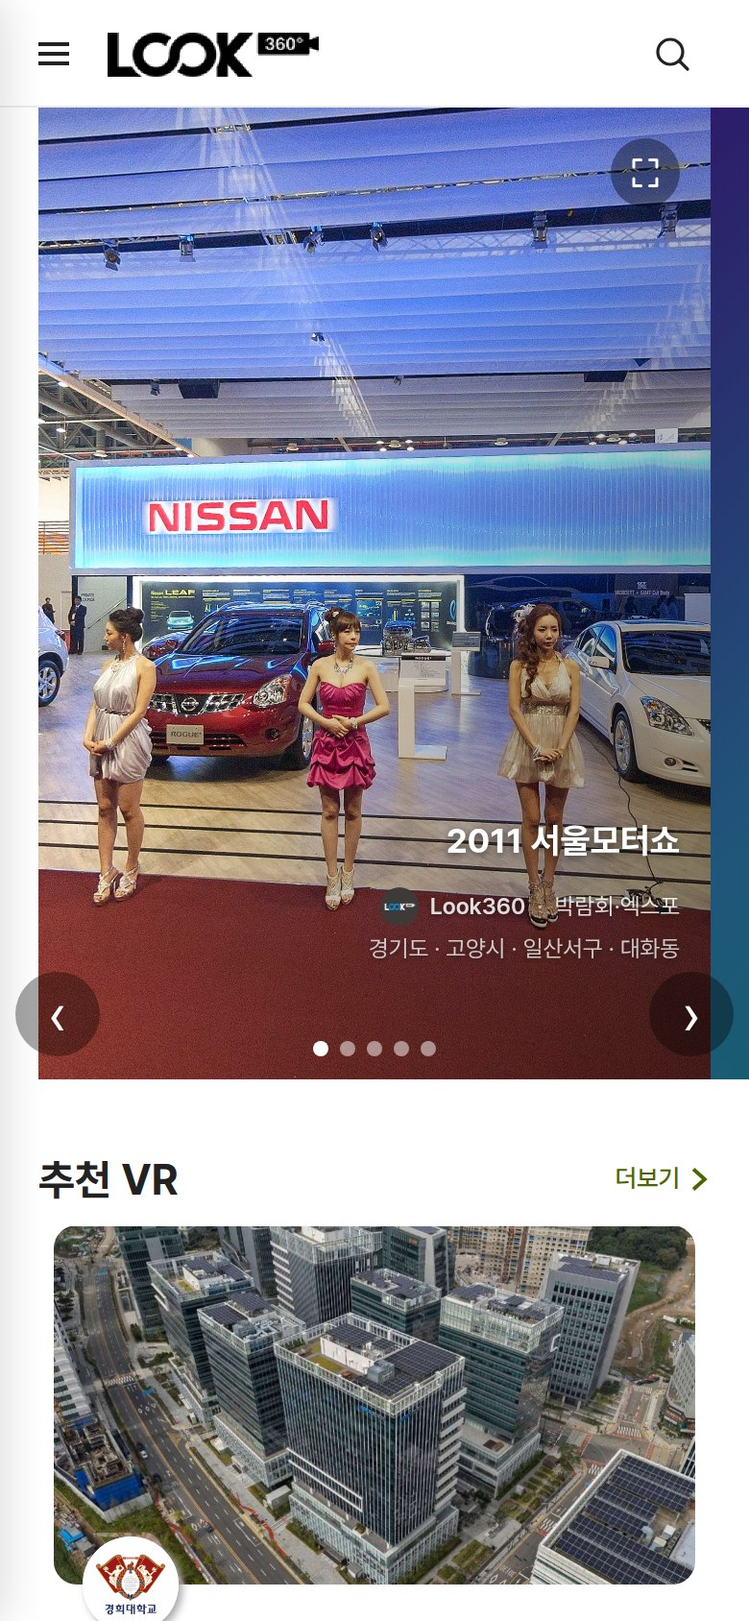
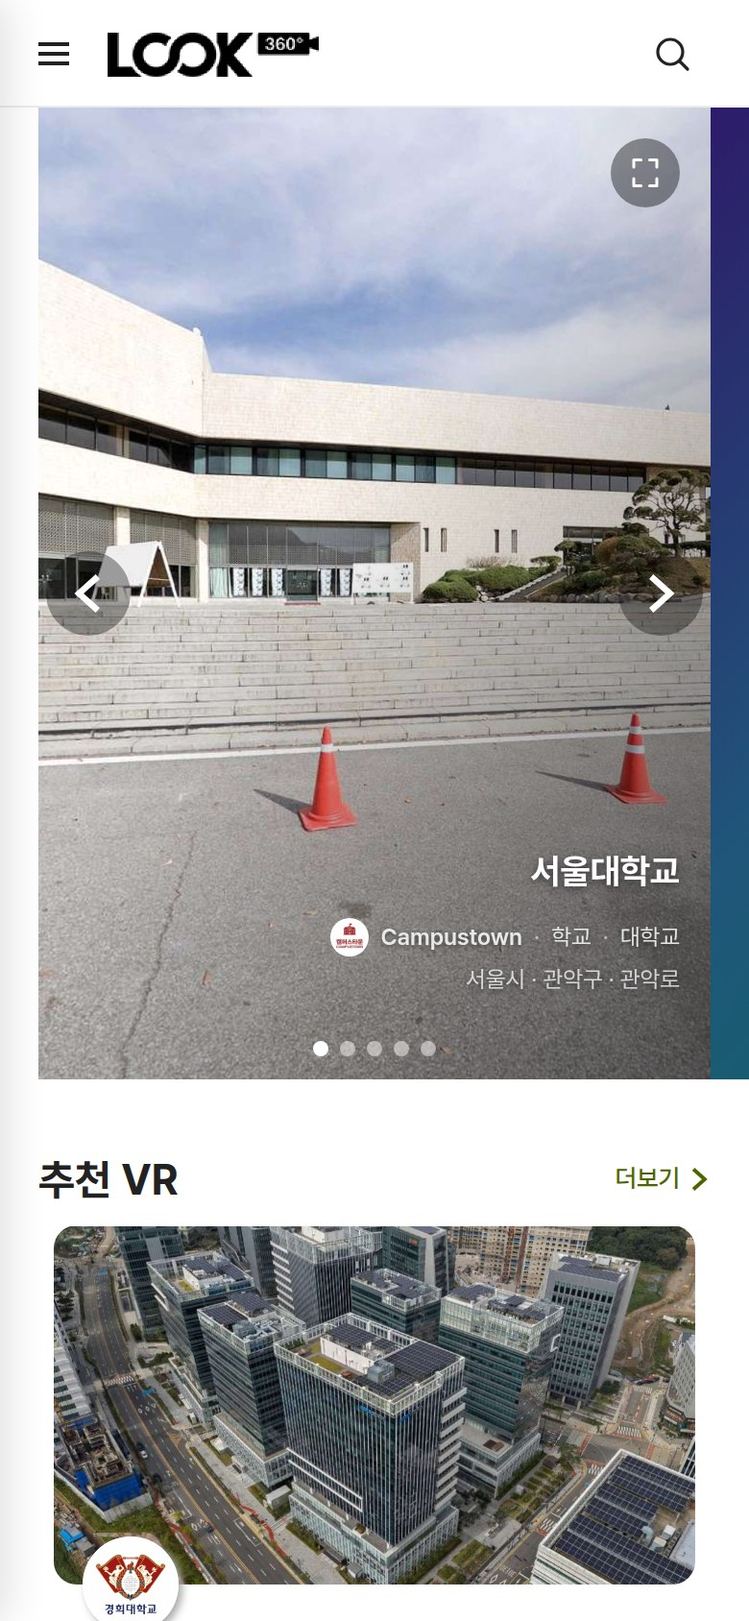
feat(weekly): 스크린샷 슬라이드에 「직접 확인」 URL 링크 + FAQ 카테고리 관리 실화면
URL 링크 (오너 상시 요구 — 매번 누락되던 항목을 도구로 강제)
- 스크린샷 8개 슬라이드 전부에 target=_blank 링크 블록 추가
- capture-weekly.mjs 가 캡처 후 붙여넣을 링크 블록을 함께 출력
- check-deck.mjs 신설 — 오버플로·깨진 이미지·이모지 오염에 더해
  「스크린샷은 있는데 링크가 없는 슬라이드」를 잡아 exit 1

캡처 스크립트
- actions 시퀀스 지원(fill/press/click/wait) — 눌러야 보이는 다이얼로그 캡처
- admin-bbs(QC 테스트 보드 잔재라 자료로 부적합) → admin-faq-category 로 교체
  /bbs/manage 에서 faq 검색 → 카테고리 관리 다이얼로그까지 자동 진입

덱 (35장, 검증 4종 통과)
- 23p 신설 — FAQ 분류 7종 CRUD 관리자 실화면
- 링크 삽입으로 넘친 7개 슬라이드 이미지 폭 재조정

diff --git a/weekly-reports/2026-09-02.html b/weekly-reports/2026-09-02.html
@@ -5,7 +5,7 @@
 <hr />
 <p>Indyspot AI Corp  ·  Engineering Manager  ·  2026-09-02</p>
 </section>
-</foreignObject></svg><svg data-marpit-svg="" viewBox="0 0 1280 720"><foreignObject width="1280" height="720"><section id="2" data-paginate="true" data-class="agenda" data-theme="clean" lang="ko-KR" class="agenda" data-marpit-pagination="2" style="--paginate:true;--class:agenda;--theme:clean;" data-marpit-pagination-total="34">
+</foreignObject></svg><svg data-marpit-svg="" viewBox="0 0 1280 720"><foreignObject width="1280" height="720"><section id="2" data-paginate="true" data-class="agenda" data-theme="clean" lang="ko-KR" class="agenda" data-marpit-pagination="2" style="--paginate:true;--class:agenda;--theme:clean;" data-marpit-pagination-total="35">
 <h2 id="%EC%9D%B4%EB%B2%88-%EC%A3%BC-%EC%A3%BC%EC%9A%94-%EC%9E%91%EC%97%85--%EC%B2%AB-%ED%99%94%EB%A9%B4%EC%9D%84-%EB%8B%A4%EC%8B%9C-%EB%A7%8C%EB%93%A4%EA%B3%A0-%EA%B4%80%EB%A6%AC%EC%9E%90%EC%97%90%EA%B2%8C-%EB%88%88%EC%9D%84-%EB%8B%AC%EC%95%84%EC%A4%80-%EC%A3%BC%EA%B0%84">이번 주 주요 작업 — 「첫 화면을 다시 만들고, 관리자에게 눈을 달아준」 주간</h2>
 <div class="cols">
 <div class="col">
@@ -43,26 +43,30 @@
 </div>
 </div>
 </section>
-</foreignObject></svg><svg data-marpit-svg="" viewBox="0 0 1280 720"><foreignObject width="1280" height="720"><section id="3" data-paginate="true" data-class="sec" data-theme="clean" lang="ko-KR" class="sec" data-marpit-pagination="3" style="--paginate:true;--class:sec;--theme:clean;" data-marpit-pagination-total="34">
+</foreignObject></svg><svg data-marpit-svg="" viewBox="0 0 1280 720"><foreignObject width="1280" height="720"><section id="3" data-paginate="true" data-class="sec" data-theme="clean" lang="ko-KR" class="sec" data-marpit-pagination="3" style="--paginate:true;--class:sec;--theme:clean;" data-marpit-pagination-total="35">
 <p><span class="sec-num">Section 01</span></p>
 <h2 id="%ED%99%88-%ED%99%94%EB%A9%B4--%EC%B2%AB%EC%9D%B8%EC%83%81%EC%9D%84-%EB%8B%A4%EC%8B%9C-%EB%A7%8C%EB%93%A4%EB%8B%A4">홈 화면 — 첫인상을 다시 만들다</h2>
 <p>메인 슬라이드를 이미지 배너에서 「실제로 돌려볼 수 있는 360VIEW」로 교체했습니다.</p>
 </section>
-</foreignObject></svg><svg data-marpit-svg="" viewBox="0 0 1280 720"><foreignObject width="1280" height="720"><section id="4" data-paginate="true" data-theme="clean" lang="ko-KR" data-marpit-pagination="4" style="--paginate:true;--theme:clean;" data-marpit-pagination-total="34">
+</foreignObject></svg><svg data-marpit-svg="" viewBox="0 0 1280 720"><foreignObject width="1280" height="720"><section id="4" data-paginate="true" data-theme="clean" lang="ko-KR" data-marpit-pagination="4" style="--paginate:true;--theme:clean;" data-marpit-pagination-total="35">
 <h2 id="%F0%9F%8F%A0-%ED%99%88-%EB%A9%94%EC%9D%B8-%EC%8A%AC%EB%9D%BC%EC%9D%B4%EB%93%9C-360view-%EC%A0%84%EB%A9%B4-%EA%B5%90%EC%B2%B4-span-classbadge-date827829span-span-classbadge-newnewspan"><img class="emoji" draggable="false" alt="🏠" src="https://cdn.jsdelivr.net/gh/jdecked/twemoji@17.0.3/assets/svg/1f3e0.svg" data-marp-twemoji=""/> 홈 메인 슬라이드 360VIEW 전면 교체 <span class="badge-date">8/27~8/29</span> <span class="badge-new">NEW</span></h2>
-<p>기존 배너는 관리자가 하나씩 등록한 <span class="hl-gray">고정 이미지</span>였습니다. 이제 실제 360VIEW 콘텐츠가 <span class="hl-green">자동으로 재생</span>되며, 방문할 때마다 다른 콘텐츠가 나옵니다.</p>
+<p>기존 배너는 관리자가 하나씩 등록한 <span class="hl-gray">고정 이미지</span>였습니다. 이제 실제 360VIEW 콘텐츠가 <span class="hl-green">자동으로 재생</span>됩니다. <span class="hl-blue">아래 두 화면에 서로 다른 콘텐츠가 떠 있는 것</span>이 방문할 때마다 바뀌는 랜덤 노출의 결과입니다.</p>
 <div class="shot-pair">
 <figure style="width: 780px">
 <img src="assets/2026-09-02/01-home-hero-crop.jpg" width="780" />
 <figcaption>PC — 자동재생 중인 360VIEW · 우하단 3줄 정보(제목 / 채널·카테고리 / 지역) · 우상단 전체화면 · 하단 랜덤 5장</figcaption>
 </figure>
-<figure style="width: 180px">
-<img src="assets/2026-09-02/02-home-mobile.jpg" width="180" />
+<figure style="width: 158px">
+<img src="assets/2026-09-02/02-home-mobile.jpg" width="158" />
 <figcaption>모바일 — 높이를 제한해<br /><span class="hl-green">스크롤이 빠져나갑니다</span></figcaption>
 </figure>
 </div>
+<div class="links">
+<span class="lbl">직접 확인</span>
+<a class="lnk" href="http://100.120.25.127:5174/" target="_blank">http://100.120.25.127:5174/</a>
+</div>
 </section>
-</foreignObject></svg><svg data-marpit-svg="" viewBox="0 0 1280 720"><foreignObject width="1280" height="720"><section id="5" data-paginate="true" data-theme="clean" lang="ko-KR" data-marpit-pagination="5" style="--paginate:true;--theme:clean;" data-marpit-pagination-total="34">
+</foreignObject></svg><svg data-marpit-svg="" viewBox="0 0 1280 720"><foreignObject width="1280" height="720"><section id="5" data-paginate="true" data-theme="clean" lang="ko-KR" data-marpit-pagination="5" style="--paginate:true;--theme:clean;" data-marpit-pagination-total="35">
 <h2 id="%F0%9F%94%84-%EB%AC%B4%EC%97%87%EC%9D%B4-%EB%B0%94%EB%80%8C%EC%97%88%EB%82%98-span-classbadge-date827829span"><img class="emoji" draggable="false" alt="🔄" src="https://cdn.jsdelivr.net/gh/jdecked/twemoji@17.0.3/assets/svg/1f504.svg" data-marp-twemoji=""/> 무엇이 바뀌었나 <span class="badge-date">8/27~8/29</span></h2>
 <table>
 <thead>
@@ -109,7 +113,7 @@
 <p>모바일에서 슬라이드 위에 손가락이 닿으면 페이지 스크롤이 막혀 <span class="hl-red">아래로 내려갈 수 없던 문제</span>(일명 개미지옥)도 함께 해소했습니다.</p>
 </blockquote>
 </section>
-</foreignObject></svg><svg data-marpit-svg="" viewBox="0 0 1280 720"><foreignObject width="1280" height="720"><section id="6" data-paginate="true" data-theme="clean" lang="ko-KR" data-marpit-pagination="6" style="--paginate:true;--theme:clean;" data-marpit-pagination-total="34">
+</foreignObject></svg><svg data-marpit-svg="" viewBox="0 0 1280 720"><foreignObject width="1280" height="720"><section id="6" data-paginate="true" data-theme="clean" lang="ko-KR" data-marpit-pagination="6" style="--paginate:true;--theme:clean;" data-marpit-pagination-total="35">
 <h2 id="%F0%9F%9B%A1%EF%B8%8F-%ED%99%88%EC%97%90-%EB%82%98%EC%98%A4%EB%A9%B4-%EC%95%88-%EB%90%98%EB%8A%94-%EC%BD%98%ED%85%90%EC%B8%A0-%EC%B0%A8%EB%8B%A8-span-classbadge-date829span-span-classbadge-newnewspan"><img class="emoji" draggable="false" alt="🛡" src="https://cdn.jsdelivr.net/gh/jdecked/twemoji@17.0.3/assets/svg/1f6e1.svg" data-marp-twemoji=""/> 홈에 나오면 안 되는 콘텐츠 차단 <span class="badge-date">8/29</span> <span class="badge-new">NEW</span></h2>
 <p>랜덤 노출이 도입되면서 <span class="hl-red">아무 콘텐츠나 첫 화면에 뜰 수 있는 위험</span>이 생겼습니다. 노출 자격을 서버에서 다시 판정하도록 했습니다.</p>
 <table>
@@ -143,7 +147,7 @@
 <p>감상 기록 오염도 함께 발견해 처리 중입니다 — 홈 슬라이드가 로그인 사용자의 <span class="hl-red">「내가 본 콘텐츠」에 자동 기록</span>되고 있었습니다. 수정은 완료되어 <span class="hl-amber">검토 단계</span>입니다.</p>
 </blockquote>
 </section>
-</foreignObject></svg><svg data-marpit-svg="" viewBox="0 0 1280 720"><foreignObject width="1280" height="720"><section id="7" data-paginate="true" data-theme="clean" lang="ko-KR" data-marpit-pagination="7" style="--paginate:true;--theme:clean;" data-marpit-pagination-total="34">
+</foreignObject></svg><svg data-marpit-svg="" viewBox="0 0 1280 720"><foreignObject width="1280" height="720"><section id="7" data-paginate="true" data-theme="clean" lang="ko-KR" data-marpit-pagination="7" style="--paginate:true;--theme:clean;" data-marpit-pagination-total="35">
 <h2 id="%F0%9F%A7%A9-%ED%99%88-%ED%99%94%EB%A9%B4-%EB%82%98%EB%A8%B8%EC%A7%80-%EA%B2%B0%ED%95%A8-3%EA%B1%B4-span-classbadge-date83191span"><img class="emoji" draggable="false" alt="🧩" src="https://cdn.jsdelivr.net/gh/jdecked/twemoji@17.0.3/assets/svg/1f9e9.svg" data-marp-twemoji=""/> 홈 화면 나머지 결함 3건 <span class="badge-date">8/31~9/1</span></h2>
 <div class="cols">
 <div class="col">
@@ -167,12 +171,12 @@
 <p>미리보기 썸네일이 <span class="hl-red">깨진 경우 무한 로딩 표시</span>로 위장되던 문제도 함께 수정했습니다.</p>
 </blockquote>
 </section>
-</foreignObject></svg><svg data-marpit-svg="" viewBox="0 0 1280 720"><foreignObject width="1280" height="720"><section id="8" data-paginate="true" data-class="sec" data-theme="clean" lang="ko-KR" class="sec" data-marpit-pagination="8" style="--paginate:true;--class:sec;--theme:clean;" data-marpit-pagination-total="34">
+</foreignObject></svg><svg data-marpit-svg="" viewBox="0 0 1280 720"><foreignObject width="1280" height="720"><section id="8" data-paginate="true" data-class="sec" data-theme="clean" lang="ko-KR" class="sec" data-marpit-pagination="8" style="--paginate:true;--class:sec;--theme:clean;" data-marpit-pagination-total="35">
 <p><span class="sec-num">Section 02</span></p>
 <h2 id="vr-%EA%B0%90%EC%83%81-%ED%99%94%EB%A9%B4--%EC%96%B8%EC%96%B4%EB%A5%BC-%EB%B0%94%EA%BF%A8%EB%8A%94%EB%8D%B0-%EC%95%88-%EB%B0%94%EB%80%8C%EB%8A%94-%EA%B2%83%EB%93%A4">VR 감상 화면 — 「언어를 바꿨는데 안 바뀌는 것들」</h2>
 <p>콘텐츠 언어를 전환했을 때 따라 바뀌지 않던 표시를 전수 정리했습니다.</p>
 </section>
-</foreignObject></svg><svg data-marpit-svg="" viewBox="0 0 1280 720"><foreignObject width="1280" height="720"><section id="9" data-paginate="true" data-theme="clean" lang="ko-KR" data-marpit-pagination="9" style="--paginate:true;--theme:clean;" data-marpit-pagination-total="34">
+</foreignObject></svg><svg data-marpit-svg="" viewBox="0 0 1280 720"><foreignObject width="1280" height="720"><section id="9" data-paginate="true" data-theme="clean" lang="ko-KR" data-marpit-pagination="9" style="--paginate:true;--theme:clean;" data-marpit-pagination-total="35">
 <h2 id="%F0%9F%88%AF-vr-%EA%B0%90%EC%83%81-%ED%99%94%EB%A9%B4--%EC%96%B8%EC%96%B4%EB%A5%BC-%EB%B0%94%EA%BF%94%EB%8F%84-%EC%95%88-%EB%B0%94%EB%80%8C%EB%8D%98-%ED%91%9C%EC%8B%9C-span-classbadge-date826827span-span-classbadge-newnewspan"><img class="emoji" draggable="false" alt="🈯" src="https://cdn.jsdelivr.net/gh/jdecked/twemoji@17.0.3/assets/svg/1f22f.svg" data-marp-twemoji=""/> VR 감상 화면 — 언어를 바꿔도 안 바뀌던 표시 <span class="badge-date">8/26~8/27</span> <span class="badge-new">NEW</span></h2>
 <p><span class="hl-blue">VR 감상 화면(<code>/vr/…</code>)</span>에서 오너가 직접 언어를 바꿔 보며 발견한 결함입니다. <span class="hl-blue">이 한 건에서만 23개 작업</span>이 나왔습니다.</p>
 <table>
@@ -202,7 +206,7 @@
 </tbody>
 </table>
 </section>
-</foreignObject></svg><svg data-marpit-svg="" viewBox="0 0 1280 720"><foreignObject width="1280" height="720"><section id="10" data-paginate="true" data-theme="clean" lang="ko-KR" data-marpit-pagination="10" style="--paginate:true;--theme:clean;" data-marpit-pagination-total="34">
+</foreignObject></svg><svg data-marpit-svg="" viewBox="0 0 1280 720"><foreignObject width="1280" height="720"><section id="10" data-paginate="true" data-theme="clean" lang="ko-KR" data-marpit-pagination="10" style="--paginate:true;--theme:clean;" data-marpit-pagination-total="35">
 <h2 id="%F0%9F%94%A4-%EC%96%B8%EC%96%B4-%EC%A0%84%ED%99%98-%EB%8F%99%EC%9E%91-%EC%9E%90%EC%B2%B4%EC%9D%98-%EA%B2%B0%ED%95%A8-span-classbadge-date825828span"><img class="emoji" draggable="false" alt="🔤" src="https://cdn.jsdelivr.net/gh/jdecked/twemoji@17.0.3/assets/svg/1f524.svg" data-marp-twemoji=""/> 언어 전환 동작 자체의 결함 <span class="badge-date">8/25~8/28</span></h2>
 <div class="cols">
 <div class="col">
@@ -240,7 +244,7 @@
 </tbody>
 </table>
 </section>
-</foreignObject></svg><svg data-marpit-svg="" viewBox="0 0 1280 720"><foreignObject width="1280" height="720"><section id="11" data-paginate="true" data-theme="clean" lang="ko-KR" data-marpit-pagination="11" style="--paginate:true;--theme:clean;" data-marpit-pagination-total="34">
+</foreignObject></svg><svg data-marpit-svg="" viewBox="0 0 1280 720"><foreignObject width="1280" height="720"><section id="11" data-paginate="true" data-theme="clean" lang="ko-KR" data-marpit-pagination="11" style="--paginate:true;--theme:clean;" data-marpit-pagination-total="35">
 <h2 id="%F0%9F%A7%AD-%ED%97%B7%EA%B0%88%EB%A6%AC%EA%B8%B0-%EC%89%AC%EC%9A%B4-%EC%A0%90--%EB%91%90-%ED%99%94%EB%A9%B4%EC%9D%80-%EC%96%B8%EC%96%B4-%EA%B8%B0%EC%A4%80%EC%9D%B4-%EB%8B%A4%EB%A6%85%EB%8B%88%EB%8B%A4-span-classbadge-date826828span"><img class="emoji" draggable="false" alt="🧭" src="https://cdn.jsdelivr.net/gh/jdecked/twemoji@17.0.3/assets/svg/1f9ed.svg" data-marp-twemoji=""/> 헷갈리기 쉬운 점 — 두 화면은 언어 기준이 다릅니다 <span class="badge-date">8/26~8/28</span></h2>
 <p>비슷해 보이지만 <span class="hl-red">같은 문제가 아닙니다.</span> 어느 화면 이야기인지 구분해 두었습니다.</p>
 <table>
@@ -272,7 +276,7 @@
 <p><img class="emoji" draggable="false" alt="🔴" src="https://cdn.jsdelivr.net/gh/jdecked/twemoji@17.0.3/assets/svg/1f534.svg" data-marp-twemoji=""/> <strong>오너 결정 (9/2)</strong> — 지역·카테고리는 <span class="hl-green">사이트 언어 축으로 통일</span>합니다. 홈·목록·상세 <span class="hl-blue">3개 화면이 이미 사이트 언어</span>인데 <span class="hl-red">감상 화면만 콘텐츠 언어</span>라, 목록에서 「자동차」로 찾아 들어가면 감상 화면엔 「自動車」로 보이는 어긋남이 있었습니다. <span class="hl-amber">IND-6710 발주 완료</span></p>
 </blockquote>
 </section>
-</foreignObject></svg><svg data-marpit-svg="" viewBox="0 0 1280 720"><foreignObject width="1280" height="720"><section id="12" data-paginate="true" data-theme="clean" lang="ko-KR" data-marpit-pagination="12" style="--paginate:true;--theme:clean;" data-marpit-pagination-total="34">
+</foreignObject></svg><svg data-marpit-svg="" viewBox="0 0 1280 720"><foreignObject width="1280" height="720"><section id="12" data-paginate="true" data-theme="clean" lang="ko-KR" data-marpit-pagination="12" style="--paginate:true;--theme:clean;" data-marpit-pagination-total="35">
 <h2 id="%F0%9F%8E%9B%EF%B8%8F-%EA%B0%90%EC%83%81-%ED%99%94%EB%A9%B4-%EC%82%AC%EC%9A%A9%EC%84%B1-5%EA%B1%B4-span-classbadge-date827828span"><img class="emoji" draggable="false" alt="🎛" src="https://cdn.jsdelivr.net/gh/jdecked/twemoji@17.0.3/assets/svg/1f39b.svg" data-marp-twemoji=""/> 감상 화면 사용성 5건 <span class="badge-date">8/27~8/28</span></h2>
 <table>
 <thead>
@@ -308,18 +312,22 @@
 <p>「보기 방식」은 VR을 어떻게 볼지 고르는 기능(일반·자이로·VR 안경 등)으로, 무엇인지 몰라 못 쓰던 기능에 설명을 붙였습니다.</p>
 </blockquote>
 </section>
-</foreignObject></svg><svg data-marpit-svg="" viewBox="0 0 1280 720"><foreignObject width="1280" height="720"><section id="13" data-paginate="true" data-class="sec" data-theme="clean" lang="ko-KR" class="sec" data-marpit-pagination="13" style="--paginate:true;--class:sec;--theme:clean;" data-marpit-pagination-total="34">
+</foreignObject></svg><svg data-marpit-svg="" viewBox="0 0 1280 720"><foreignObject width="1280" height="720"><section id="13" data-paginate="true" data-class="sec" data-theme="clean" lang="ko-KR" class="sec" data-marpit-pagination="13" style="--paginate:true;--class:sec;--theme:clean;" data-marpit-pagination-total="35">
 <p><span class="sec-num">Section 03</span></p>
 <h2 id="%EB%AA%A9%EB%A1%9D--%EA%B2%80%EC%83%89--%EC%B0%BE%EB%8A%94-%EA%B2%BD%EB%A1%9C%EB%A5%BC-%EC%A0%95%EB%A6%AC">목록 · 검색 — 찾는 경로를 정리</h2>
 <p>카드 표시 규격과 검색 자동완성의 「결과 주체」를 재정의했습니다.</p>
 </section>
-</foreignObject></svg><svg data-marpit-svg="" viewBox="0 0 1280 720"><foreignObject width="1280" height="720"><section id="14" data-paginate="true" data-theme="clean" lang="ko-KR" data-marpit-pagination="14" style="--paginate:true;--theme:clean;" data-marpit-pagination-total="34">
+</foreignObject></svg><svg data-marpit-svg="" viewBox="0 0 1280 720"><foreignObject width="1280" height="720"><section id="14" data-paginate="true" data-theme="clean" lang="ko-KR" data-marpit-pagination="14" style="--paginate:true;--theme:clean;" data-marpit-pagination-total="35">
 <h2 id="%F0%9F%94%8D-%EA%B2%80%EC%83%89-%EC%9E%90%EB%8F%99%EC%99%84%EC%84%B1--%EB%AC%B4%EC%97%87%EC%9D%84-%EB%B3%B4%EC%97%AC%EC%A4%84-%EA%B2%83%EC%9D%B8%EA%B0%80-span-classbadge-date828829span-span-classbadge-newnewspan"><img class="emoji" draggable="false" alt="🔍" src="https://cdn.jsdelivr.net/gh/jdecked/twemoji@17.0.3/assets/svg/1f50d.svg" data-marp-twemoji=""/> 검색 자동완성 — 무엇을 보여줄 것인가 <span class="badge-date">8/28~8/29</span> <span class="badge-new">NEW</span></h2>
 <p>기존 자동완성은 <span class="hl-red">장소(place)</span>를 함께 보여줬습니다. 사용자가 찾는 것은 장소가 아니라 <span class="hl-green">볼 수 있는 콘텐츠</span>라는 판단으로 소스를 교체했습니다.</p>
-<p><img src="assets/2026-09-02/04-autocomplete.jpg" alt="" style="width:596px;" /></p>
+<p><img src="assets/2026-09-02/04-autocomplete.jpg" alt="" style="width:548px;" /></p>
 <figcaption>실제 화면 — VR · 파노라마 · 360포스트 · 채널 배지로 종류를 구분. 장소는 제거됨</figcaption>
+<div class="links">
+<span class="lbl">직접 확인</span>
+<a class="lnk" href="http://100.120.25.127:5174/vr-list" target="_blank">http://100.120.25.127:5174/vr-list</a>
+</div>
 </section>
-</foreignObject></svg><svg data-marpit-svg="" viewBox="0 0 1280 720"><foreignObject width="1280" height="720"><section id="15" data-paginate="true" data-theme="clean" lang="ko-KR" data-marpit-pagination="15" style="--paginate:true;--theme:clean;" data-marpit-pagination-total="34">
+</foreignObject></svg><svg data-marpit-svg="" viewBox="0 0 1280 720"><foreignObject width="1280" height="720"><section id="15" data-paginate="true" data-theme="clean" lang="ko-KR" data-marpit-pagination="15" style="--paginate:true;--theme:clean;" data-marpit-pagination-total="35">
 <h2 id="%F0%9F%93%8B-%EB%AA%A9%EB%A1%9D-%EC%B9%B4%EB%93%9C-%ED%91%9C%EC%8B%9C-%EA%B7%9C%EA%B2%A9-span-classbadge-date827828span"><img class="emoji" draggable="false" alt="📋" src="https://cdn.jsdelivr.net/gh/jdecked/twemoji@17.0.3/assets/svg/1f4cb.svg" data-marp-twemoji=""/> 목록 카드 표시 규격 <span class="badge-date">8/27~8/28</span></h2>
 <div class="cols">
 <div class="col">
@@ -336,13 +344,17 @@
 <p><img src="assets/2026-09-02/03-vrlist.jpg" alt="" style="width:390px;" /></p>
 </div>
 </div>
+<div class="links">
+<span class="lbl">직접 확인</span>
+<a class="lnk" href="http://100.120.25.127:5174/vr-list" target="_blank">http://100.120.25.127:5174/vr-list</a>
+</div>
 </section>
-</foreignObject></svg><svg data-marpit-svg="" viewBox="0 0 1280 720"><foreignObject width="1280" height="720"><section id="16" data-paginate="true" data-class="sec" data-theme="clean" lang="ko-KR" class="sec" data-marpit-pagination="16" style="--paginate:true;--class:sec;--theme:clean;" data-marpit-pagination-total="34">
+</foreignObject></svg><svg data-marpit-svg="" viewBox="0 0 1280 720"><foreignObject width="1280" height="720"><section id="16" data-paginate="true" data-class="sec" data-theme="clean" lang="ko-KR" class="sec" data-marpit-pagination="16" style="--paginate:true;--class:sec;--theme:clean;" data-marpit-pagination-total="35">
 <p><span class="sec-num">Section 04</span></p>
 <h2 id="%EB%A7%88%EC%9D%B4%ED%8E%98%EC%9D%B4%EC%A7%80--%EC%95%8C%EB%A6%BC">마이페이지 · 알림</h2>
 <p>사용자 개인 지면의 조작 결함을 정리했습니다.</p>
 </section>
-</foreignObject></svg><svg data-marpit-svg="" viewBox="0 0 1280 720"><foreignObject width="1280" height="720"><section id="17" data-paginate="true" data-theme="clean" lang="ko-KR" data-marpit-pagination="17" style="--paginate:true;--theme:clean;" data-marpit-pagination-total="34">
+</foreignObject></svg><svg data-marpit-svg="" viewBox="0 0 1280 720"><foreignObject width="1280" height="720"><section id="17" data-paginate="true" data-theme="clean" lang="ko-KR" data-marpit-pagination="17" style="--paginate:true;--theme:clean;" data-marpit-pagination-total="35">
 <h2 id="%F0%9F%91%A4-%EB%A7%88%EC%9D%B4%ED%8E%98%EC%9D%B4%EC%A7%80--%EC%95%8C%EB%A6%BC-5%EA%B1%B4-span-classbadge-date82791span"><img class="emoji" draggable="false" alt="👤" src="https://cdn.jsdelivr.net/gh/jdecked/twemoji@17.0.3/assets/svg/1f464.svg" data-marp-twemoji=""/> 마이페이지 · 알림 5건 <span class="badge-date">8/27~9/1</span></h2>
 <table>
 <thead>
@@ -384,18 +396,22 @@
 <p>관리자 알림벨의 「모든 알림 보기」는 <span class="hl-gray">이동할 화면 자체가 없어</span> 버튼을 제거했습니다.</p>
 </blockquote>
 </section>
-</foreignObject></svg><svg data-marpit-svg="" viewBox="0 0 1280 720"><foreignObject width="1280" height="720"><section id="18" data-paginate="true" data-class="sec" data-theme="clean" lang="ko-KR" class="sec" data-marpit-pagination="18" style="--paginate:true;--class:sec;--theme:clean;" data-marpit-pagination-total="34">
+</foreignObject></svg><svg data-marpit-svg="" viewBox="0 0 1280 720"><foreignObject width="1280" height="720"><section id="18" data-paginate="true" data-class="sec" data-theme="clean" lang="ko-KR" class="sec" data-marpit-pagination="18" style="--paginate:true;--class:sec;--theme:clean;" data-marpit-pagination-total="35">
 <p><span class="sec-num">Section 05</span></p>
 <h2 id="%EA%B4%80%EB%A6%AC%EC%9E%90-%ED%99%94%EB%A9%B4--%EC%97%86%EB%8D%98-%EB%88%88%EC%9D%84-%EB%8B%AC%EB%8B%A4">관리자 화면 — 없던 눈을 달다</h2>
 <p>관리자가 볼 수 없던 정보를 화면으로 만들었습니다. 이번 주 신설 2종입니다.</p>
 </section>
-</foreignObject></svg><svg data-marpit-svg="" viewBox="0 0 1280 720"><foreignObject width="1280" height="720"><section id="19" data-paginate="true" data-theme="clean" lang="ko-KR" data-marpit-pagination="19" style="--paginate:true;--theme:clean;" data-marpit-pagination-total="34">
+</foreignObject></svg><svg data-marpit-svg="" viewBox="0 0 1280 720"><foreignObject width="1280" height="720"><section id="19" data-paginate="true" data-theme="clean" lang="ko-KR" data-marpit-pagination="19" style="--paginate:true;--theme:clean;" data-marpit-pagination-total="35">
 <h2 id="%F0%9F%93%8A-%EA%B2%80%EC%83%89-%ED%8A%B8%EB%A0%8C%EB%93%9C-%ED%86%B5%EA%B3%84-%ED%99%94%EB%A9%B4-span-classbadge-date828span-span-classbadge-newnewspan"><img class="emoji" draggable="false" alt="📊" src="https://cdn.jsdelivr.net/gh/jdecked/twemoji@17.0.3/assets/svg/1f4ca.svg" data-marp-twemoji=""/> 검색 트렌드 통계 화면 <span class="badge-date">8/28</span> <span class="badge-new">NEW</span></h2>
 <p>사용자가 <span class="hl-blue">무엇을 검색하는지</span>, 그리고 <span class="hl-red">검색했는데 아무것도 못 찾았는지</span>를 처음으로 볼 수 있게 됐습니다.</p>
-<p><img src="assets/2026-09-02/06-admin-search-trends.jpg" alt="" style="width:700px;" /></p>
+<p><img src="assets/2026-09-02/06-admin-search-trends.jpg" alt="" style="width:606px;" /></p>
 <figcaption>관리자 화면 실측 — 일간·주간·월간 전환 · 인기 검색어 순위 · 결과 0건 검색어 · 집계 시작일 안내</figcaption>
+<div class="links">
+<span class="lbl">직접 확인</span>
+<a class="lnk admin" href="http://100.120.25.127:5277/admin/search-trends" target="_blank">http://100.120.25.127:5277/admin/search-trends</a>
+</div>
 </section>
-</foreignObject></svg><svg data-marpit-svg="" viewBox="0 0 1280 720"><foreignObject width="1280" height="720"><section id="20" data-paginate="true" data-theme="clean" lang="ko-KR" data-marpit-pagination="20" style="--paginate:true;--theme:clean;" data-marpit-pagination-total="34">
+</foreignObject></svg><svg data-marpit-svg="" viewBox="0 0 1280 720"><foreignObject width="1280" height="720"><section id="20" data-paginate="true" data-theme="clean" lang="ko-KR" data-marpit-pagination="20" style="--paginate:true;--theme:clean;" data-marpit-pagination-total="35">
 <h2 id="%F0%9F%93%88-%EA%B2%80%EC%83%89-%ED%8A%B8%EB%A0%8C%EB%93%9C--%EB%AC%B4%EC%97%87%EC%9D%84-%EB%B3%BC-%EC%88%98-%EC%9E%88%EB%82%98-span-classbadge-date828span"><img class="emoji" draggable="false" alt="📈" src="https://cdn.jsdelivr.net/gh/jdecked/twemoji@17.0.3/assets/svg/1f4c8.svg" data-marp-twemoji=""/> 검색 트렌드 — 무엇을 볼 수 있나 <span class="badge-date">8/28</span></h2>
 <table>
 <thead>
@@ -427,13 +443,17 @@
 <p>이를 위해 검색 기록에 <span class="hl-green">「결과 몇 건이 나왔는지」를 저장하는 항목을 신설</span>하고, 검색을 호출하는 7개 지점을 모두 새 방식으로 이관했습니다. 기록되지 않던 정보라 <span class="hl-amber">집계는 신설 시점부터 쌓입니다.</span></p>
 </blockquote>
 </section>
-</foreignObject></svg><svg data-marpit-svg="" viewBox="0 0 1280 720"><foreignObject width="1280" height="720"><section id="21" data-paginate="true" data-theme="clean" lang="ko-KR" data-marpit-pagination="21" style="--paginate:true;--theme:clean;" data-marpit-pagination-total="34">
+</foreignObject></svg><svg data-marpit-svg="" viewBox="0 0 1280 720"><foreignObject width="1280" height="720"><section id="21" data-paginate="true" data-theme="clean" lang="ko-KR" data-marpit-pagination="21" style="--paginate:true;--theme:clean;" data-marpit-pagination-total="35">
 <h2 id="%E2%9D%93-faq-%EC%B9%B4%ED%85%8C%EA%B3%A0%EB%A6%AC-%EA%B0%9C%ED%8E%B8-span-classbadge-date827828span-span-classbadge-newnewspan"><img class="emoji" draggable="false" alt="❓" src="https://cdn.jsdelivr.net/gh/jdecked/twemoji@17.0.3/assets/svg/2753.svg" data-marp-twemoji=""/> FAQ 카테고리 개편 <span class="badge-date">8/27~8/28</span> <span class="badge-new">NEW</span></h2>
 <p>FAQ에 <span class="hl-green">7종 분류</span>를 도입하고, 관리자가 직접 분류를 관리할 수 있게 했습니다.</p>
-<p><img src="assets/2026-09-02/05-faq.jpg" alt="" style="width:650px;" /></p>
+<p><img src="assets/2026-09-02/05-faq.jpg" alt="" style="width:608px;" /></p>
 <figcaption>실제 화면 — 상단 분류 필터 칩 + 제목 앞 분류 칩. 기존 53건 전건에 분류 배정 완료</figcaption>
+<div class="links">
+<span class="lbl">직접 확인</span>
+<a class="lnk" href="http://100.120.25.127:5174/faq" target="_blank">http://100.120.25.127:5174/faq</a>
+</div>
 </section>
-</foreignObject></svg><svg data-marpit-svg="" viewBox="0 0 1280 720"><foreignObject width="1280" height="720"><section id="22" data-paginate="true" data-theme="clean" lang="ko-KR" data-marpit-pagination="22" style="--paginate:true;--theme:clean;" data-marpit-pagination-total="34">
+</foreignObject></svg><svg data-marpit-svg="" viewBox="0 0 1280 720"><foreignObject width="1280" height="720"><section id="22" data-paginate="true" data-theme="clean" lang="ko-KR" data-marpit-pagination="22" style="--paginate:true;--theme:clean;" data-marpit-pagination-total="35">
 <h2 id="%F0%9F%94%90-faq--%EA%B4%80%EB%A6%AC%EC%9E%90-%EA%B8%B0%EB%8A%A5%EA%B3%BC-%EC%95%88%EC%A0%84%EC%9E%A5%EC%B9%98-span-classbadge-date827828span"><img class="emoji" draggable="false" alt="🔐" src="https://cdn.jsdelivr.net/gh/jdecked/twemoji@17.0.3/assets/svg/1f510.svg" data-marp-twemoji=""/> FAQ — 관리자 기능과 안전장치 <span class="badge-date">8/27~8/28</span></h2>
 <table>
 <thead>
@@ -465,18 +485,31 @@
 <p>개편 중 발견해 함께 고친 것 — 관리자가 새로 쓴 FAQ가 <span class="hl-red">공개 목록에 나오지 않던 문제</span>, 그리고 새 글에 한해 <span class="hl-red">삭제 차단이 작동하지 않던</span> 허점입니다.</p>
 </blockquote>
 </section>
-</foreignObject></svg><svg data-marpit-svg="" viewBox="0 0 1280 720"><foreignObject width="1280" height="720"><section id="23" data-paginate="true" data-theme="clean" lang="ko-KR" data-marpit-pagination="23" style="--paginate:true;--theme:clean;" data-marpit-pagination-total="34">
+</foreignObject></svg><svg data-marpit-svg="" viewBox="0 0 1280 720"><foreignObject width="1280" height="720"><section id="23" data-paginate="true" data-theme="clean" lang="ko-KR" data-marpit-pagination="23" style="--paginate:true;--theme:clean;" data-marpit-pagination-total="35">
+<h2 id="%F0%9F%97%82%EF%B8%8F-faq-%EB%B6%84%EB%A5%98%EB%A5%BC-%EA%B4%80%EB%A6%AC%EC%9E%90%EA%B0%80-%EC%A7%81%EC%A0%91-%EB%A7%8C%EB%93%A0%EB%8B%A4-span-classbadge-date827828span-span-classbadge-newnewspan"><img class="emoji" draggable="false" alt="🗂" src="https://cdn.jsdelivr.net/gh/jdecked/twemoji@17.0.3/assets/svg/1f5c2.svg" data-marp-twemoji=""/> FAQ 분류를 관리자가 직접 만든다 <span class="badge-date">8/27~8/28</span> <span class="badge-new">NEW</span></h2>
+<p><img src="assets/2026-09-02/09-admin-faq-category.jpg" alt="" style="width:560px;" /></p>
+<figcaption>관리자 화면 실측 — 분류 7종 · 순서 변경 · 이름 수정 · 비활성 · 하단에서 새 분류 추가</figcaption>
+<div class="links">
+<span class="lbl">직접 확인</span>
+<a class="lnk admin" href="http://100.120.25.127:5277/bbs/manage" target="_blank">http://100.120.25.127:5277/bbs/manage</a>
+</div>
+</section>
+</foreignObject></svg><svg data-marpit-svg="" viewBox="0 0 1280 720"><foreignObject width="1280" height="720"><section id="24" data-paginate="true" data-theme="clean" lang="ko-KR" data-marpit-pagination="24" style="--paginate:true;--theme:clean;" data-marpit-pagination-total="35">
 <h2 id="%F0%9F%8E%9A%EF%B8%8F-%ED%99%88-%EC%8A%AC%EB%9D%BC%EC%9D%B4%EB%93%9C%EB%A5%BC-%EA%B4%80%EB%A6%AC%EC%9E%90%EA%B0%80-%EC%A7%81%EC%A0%91-%EA%B5%AC%EC%84%B1-span-classbadge-date828span-span-classbadge-newnewspan"><img class="emoji" draggable="false" alt="🎚" src="https://cdn.jsdelivr.net/gh/jdecked/twemoji@17.0.3/assets/svg/1f39a.svg" data-marp-twemoji=""/> 홈 슬라이드를 관리자가 직접 구성 <span class="badge-date">8/28</span> <span class="badge-new">NEW</span></h2>
 <p>홈에 어떤 360VIEW를 몇 장 노출할지 <span class="hl-green">관리자가 직접 정합니다.</span> 풀을 비워두면 전체 360VIEW에서 랜덤 노출됩니다.</p>
-<p><img src="assets/2026-09-02/07-admin-main-hero.jpg" alt="" style="width:700px;" /></p>
+<p><img src="assets/2026-09-02/07-admin-main-hero.jpg" alt="" style="width:600px;" /></p>
 <figcaption>관리자 화면 실측 — 「풀 사용 ON」 토글 · 활성 5개 · 순서 지정. 앞 슬라이드의 홈 화면에 이 목록이 그대로 반영됩니다</figcaption>
+<div class="links">
+<span class="lbl">직접 확인</span>
+<a class="lnk admin" href="http://100.120.25.127:5277/main-page?tab=hero" target="_blank">http://100.120.25.127:5277/main-page?tab=hero</a>
+</div>
 </section>
-</foreignObject></svg><svg data-marpit-svg="" viewBox="0 0 1280 720"><foreignObject width="1280" height="720"><section id="24" data-paginate="true" data-class="sec" data-theme="clean" lang="ko-KR" class="sec" data-marpit-pagination="24" style="--paginate:true;--class:sec;--theme:clean;" data-marpit-pagination-total="34">
+</foreignObject></svg><svg data-marpit-svg="" viewBox="0 0 1280 720"><foreignObject width="1280" height="720"><section id="25" data-paginate="true" data-class="sec" data-theme="clean" lang="ko-KR" class="sec" data-marpit-pagination="25" style="--paginate:true;--class:sec;--theme:clean;" data-marpit-pagination-total="35">
 <p><span class="sec-num">Section 06</span></p>
 <h2 id="%ED%8C%90%EB%A7%A4--%EC%83%81%ED%92%88-%EB%B3%B4%ED%98%B8">판매 · 상품 보호</h2>
 <p>「팔면 안 되는 상태의 상품」이 팔리지 않도록 자동 감시를 붙였습니다.</p>
 </section>
-</foreignObject></svg><svg data-marpit-svg="" viewBox="0 0 1280 720"><foreignObject width="1280" height="720"><section id="25" data-paginate="true" data-theme="clean" lang="ko-KR" data-marpit-pagination="25" style="--paginate:true;--theme:clean;" data-marpit-pagination-total="34">
+</foreignObject></svg><svg data-marpit-svg="" viewBox="0 0 1280 720"><foreignObject width="1280" height="720"><section id="26" data-paginate="true" data-theme="clean" lang="ko-KR" data-marpit-pagination="26" style="--paginate:true;--theme:clean;" data-marpit-pagination-total="35">
 <h2 id="%F0%9F%9B%92-%EB%AF%B8%EB%A6%AC%EB%B3%B4%EA%B8%B0-%EC%97%86%EB%8A%94-%EC%83%81%ED%92%88-%EC%83%81%EC%8B%9C-%EA%B0%90%EC%8B%9C-span-classbadge-date828span-span-classbadge-newnewspan"><img class="emoji" draggable="false" alt="🛒" src="https://cdn.jsdelivr.net/gh/jdecked/twemoji@17.0.3/assets/svg/1f6d2.svg" data-marp-twemoji=""/> 미리보기 없는 상품 상시 감시 <span class="badge-date">8/28</span> <span class="badge-new">NEW</span></h2>
 <p>유료 상품은 구매 전 <span class="hl-blue">미리보기</span>가 반드시 있어야 합니다. 그동안은 <span class="hl-red">위반해도 아무도 알 수 없었습니다.</span></p>
 <table>
@@ -510,12 +543,16 @@
 </tbody>
 </table>
 </section>
-</foreignObject></svg><svg data-marpit-svg="" viewBox="0 0 1280 720"><foreignObject width="1280" height="720"><section id="26" data-paginate="true" data-theme="clean" lang="ko-KR" data-marpit-pagination="26" style="--paginate:true;--theme:clean;" data-marpit-pagination-total="34">
+</foreignObject></svg><svg data-marpit-svg="" viewBox="0 0 1280 720"><foreignObject width="1280" height="720"><section id="27" data-paginate="true" data-theme="clean" lang="ko-KR" data-marpit-pagination="27" style="--paginate:true;--theme:clean;" data-marpit-pagination-total="35">
 <h2 id="%E2%9A%A0%EF%B8%8F-%EC%9C%84%EB%B0%98-%EA%B1%B4%EC%88%98%EA%B0%80-%ED%99%94%EB%A9%B4%EC%97%90-%ED%95%AD%EC%83%81-%EB%B3%B4%EC%9D%B8%EB%8B%A4-span-classbadge-date91span-span-classbadge-newnewspan"><img class="emoji" draggable="false" alt="⚠" src="https://cdn.jsdelivr.net/gh/jdecked/twemoji@17.0.3/assets/svg/26a0.svg" data-marp-twemoji=""/> 위반 건수가 화면에 항상 보인다 <span class="badge-date">9/1</span> <span class="badge-new">NEW</span></h2>
-<p><img src="assets/2026-09-02/08-admin-sales.jpg" alt="" style="width:760px;" /></p>
+<p><img src="assets/2026-09-02/08-admin-sales.jpg" alt="" style="width:708px;" /></p>
 <figcaption>관리자 판매 설정 화면 실측 — 우측 상단 「위반 3건」 배지. 알림을 받지 못해도 화면에 들어오는 순간 바로 보입니다</figcaption>
+<div class="links">
+<span class="lbl">직접 확인</span>
+<a class="lnk admin" href="http://100.120.25.127:5277/vr-sales-settings" target="_blank">http://100.120.25.127:5277/vr-sales-settings</a>
+</div>
 </section>
-</foreignObject></svg><svg data-marpit-svg="" viewBox="0 0 1280 720"><foreignObject width="1280" height="720"><section id="27" data-paginate="true" data-theme="clean" lang="ko-KR" data-marpit-pagination="27" style="--paginate:true;--theme:clean;" data-marpit-pagination-total="34">
+</foreignObject></svg><svg data-marpit-svg="" viewBox="0 0 1280 720"><foreignObject width="1280" height="720"><section id="28" data-paginate="true" data-theme="clean" lang="ko-KR" data-marpit-pagination="28" style="--paginate:true;--theme:clean;" data-marpit-pagination-total="35">
 <h2 id="%F0%9F%93%85-%ED%8C%90%EB%A7%A4-%EA%B8%B0%EA%B0%84-90%EC%9D%BC--365%EC%9D%BC-%EC%A0%95%EC%83%81%ED%99%94-span-classbadge-date91span-span-classbadge-newnewspan"><img class="emoji" draggable="false" alt="📅" src="https://cdn.jsdelivr.net/gh/jdecked/twemoji@17.0.3/assets/svg/1f4c5.svg" data-marp-twemoji=""/> 판매 기간 90일 · 365일 정상화 <span class="badge-date">9/1</span> <span class="badge-new">NEW</span></h2>
 <div class="cols">
 <div class="col">
@@ -539,12 +576,12 @@
 <p>관리자가 통제할 수 없는 상태로 상품이 팔리고 있던 것으로, <span class="hl-amber">운영 리스크에 해당</span>하여 우선 처리했습니다.</p>
 </blockquote>
 </section>
-</foreignObject></svg><svg data-marpit-svg="" viewBox="0 0 1280 720"><foreignObject width="1280" height="720"><section id="28" data-paginate="true" data-class="sec" data-theme="clean" lang="ko-KR" class="sec" data-marpit-pagination="28" style="--paginate:true;--class:sec;--theme:clean;" data-marpit-pagination-total="34">
+</foreignObject></svg><svg data-marpit-svg="" viewBox="0 0 1280 720"><foreignObject width="1280" height="720"><section id="29" data-paginate="true" data-class="sec" data-theme="clean" lang="ko-KR" class="sec" data-marpit-pagination="29" style="--paginate:true;--class:sec;--theme:clean;" data-marpit-pagination-total="35">
 <p><span class="sec-num">Section 07</span></p>
 <h2 id="%EB%8D%B0%EC%9D%B4%ED%84%B0-%EC%A0%95%ED%95%A9--%EB%8B%A4%EA%B5%AD%EC%96%B4-%EA%B8%B0%EB%B0%98">데이터 정합 · 다국어 기반</h2>
 <p>화면 뒤에서 조용히 어긋나 있던 것들을 바로잡았습니다.</p>
 </section>
-</foreignObject></svg><svg data-marpit-svg="" viewBox="0 0 1280 720"><foreignObject width="1280" height="720"><section id="29" data-paginate="true" data-theme="clean" lang="ko-KR" data-marpit-pagination="29" style="--paginate:true;--theme:clean;" data-marpit-pagination-total="34">
+</foreignObject></svg><svg data-marpit-svg="" viewBox="0 0 1280 720"><foreignObject width="1280" height="720"><section id="30" data-paginate="true" data-theme="clean" lang="ko-KR" data-marpit-pagination="30" style="--paginate:true;--theme:clean;" data-marpit-pagination-total="35">
 <h2 id="%F0%9F%97%BA%EF%B8%8F-%EC%A7%80%EC%97%AD-%ED%95%84%ED%84%B0%EA%B0%80-%EB%B9%84%EC%96%B4-%EC%9E%88%EB%8D%98-%EC%9B%90%EC%9D%B8-span-classbadge-date829831span"><img class="emoji" draggable="false" alt="🗺" src="https://cdn.jsdelivr.net/gh/jdecked/twemoji@17.0.3/assets/svg/1f5fa.svg" data-marp-twemoji=""/> 지역 필터가 비어 있던 원인 <span class="badge-date">8/29~8/31</span></h2>
 <p>VR 목록의 <span class="hl-blue">지역별 필터</span>가 일부 콘텐츠를 잡지 못했습니다. 콘텐츠의 <span class="hl-red">주소와 지역 정보가 연결되지 않은 상태</span>였기 때문입니다.</p>
 <table>
@@ -577,7 +614,7 @@
 <p>이 검사는 <span class="hl-amber">현재 데이터에서 일부러 실패가 나오도록</span> 설계했습니다 — 남은 결측을 계속 보이게 하기 위함입니다.</p>
 </blockquote>
 </section>
-</foreignObject></svg><svg data-marpit-svg="" viewBox="0 0 1280 720"><foreignObject width="1280" height="720"><section id="30" data-paginate="true" data-theme="clean" lang="ko-KR" data-marpit-pagination="30" style="--paginate:true;--theme:clean;" data-marpit-pagination-total="34">
+</foreignObject></svg><svg data-marpit-svg="" viewBox="0 0 1280 720"><foreignObject width="1280" height="720"><section id="31" data-paginate="true" data-theme="clean" lang="ko-KR" data-marpit-pagination="31" style="--paginate:true;--theme:clean;" data-marpit-pagination-total="35">
 <h2 id="%F0%9F%8C%90-%EC%82%AC%EC%9D%B4%ED%8A%B8-%EC%96%B8%EC%96%B4-2%EC%A2%85-%E2%86%92-7%EC%A2%85-%ED%99%95%EB%8C%80-span-classbadge-date829831span"><img class="emoji" draggable="false" alt="🌐" src="https://cdn.jsdelivr.net/gh/jdecked/twemoji@17.0.3/assets/svg/1f310.svg" data-marp-twemoji=""/> 사이트 언어 2종 → 7종 확대 <span class="badge-date">8/29~8/31</span></h2>
 <div class="cols">
 <div class="col">
@@ -602,7 +639,7 @@
 <p>터키어는 오너 판단으로 <span class="hl-gray">제외</span>되었습니다. 번역문은 기계번역으로 자동 채우지 않고, <span class="hl-green">검수된 번역만 반영</span>하는 방식으로 진행 중입니다.</p>
 </blockquote>
 </section>
-</foreignObject></svg><svg data-marpit-svg="" viewBox="0 0 1280 720"><foreignObject width="1280" height="720"><section id="31" data-paginate="true" data-theme="clean" lang="ko-KR" data-marpit-pagination="31" style="--paginate:true;--theme:clean;" data-marpit-pagination-total="34">
+</foreignObject></svg><svg data-marpit-svg="" viewBox="0 0 1280 720"><foreignObject width="1280" height="720"><section id="32" data-paginate="true" data-theme="clean" lang="ko-KR" data-marpit-pagination="32" style="--paginate:true;--theme:clean;" data-marpit-pagination-total="35">
 <h2 id="%F0%9F%8E%AF-%EC%9D%B4%EB%B2%88-%EC%A3%BC-%EC%95%88%EA%B1%B4--%EC%98%A4%EB%84%88-%EA%B2%B0%EC%A0%95-%EB%8C%80%EA%B8%B0"><img class="emoji" draggable="false" alt="🎯" src="https://cdn.jsdelivr.net/gh/jdecked/twemoji@17.0.3/assets/svg/1f3af.svg" data-marp-twemoji=""/> 이번 주 안건 — 오너 결정 대기</h2>
 <p>이번 주는 <span class="hl-green">현장 결함 처리량이 컸고</span>, 남은 것은 <span class="hl-amber">데이터 처리 방침 판단 6건</span>입니다.</p>
 <table>
@@ -643,7 +680,7 @@
 <p>회의 전 확정 — <span class="hl-green">지역·카테고리 언어 기준을 「사이트 언어」로 통일</span>하기로 결정(<span class="hl-blue">IND-6710</span> 발주). 지난주 안건 처리 — <span class="hl-green">번역 비용 정책(IND-6447) 판정 완료</span>. <span class="hl-amber">미관람 30일 소멸(IND-6298) · 정책 4·5 가동(IND-6147) · 실 카드 결제 오픈(IND-4997) · 지역명 번역 승인(IND-6465)은 이월</span>됩니다.</p>
 </blockquote>
 </section>
-</foreignObject></svg><svg data-marpit-svg="" viewBox="0 0 1280 720"><foreignObject width="1280" height="720"><section id="32" data-paginate="true" data-theme="clean" lang="ko-KR" data-marpit-pagination="32" style="--paginate:true;--theme:clean;" data-marpit-pagination-total="34">
+</foreignObject></svg><svg data-marpit-svg="" viewBox="0 0 1280 720"><foreignObject width="1280" height="720"><section id="33" data-paginate="true" data-theme="clean" lang="ko-KR" data-marpit-pagination="33" style="--paginate:true;--theme:clean;" data-marpit-pagination-total="35">
 <h2 id="%F0%9F%93%8A-%EC%A3%BC%EA%B0%84-%EC%B2%98%EB%A6%AC%EB%9F%89"><img class="emoji" draggable="false" alt="📊" src="https://cdn.jsdelivr.net/gh/jdecked/twemoji@17.0.3/assets/svg/1f4ca.svg" data-marp-twemoji=""/> 주간 처리량</h2>
 <div class="stats">
 <div class="card"><div class="num">250</div><div class="lab">완료 작업</div></div>
@@ -691,7 +728,7 @@
 <p>서비스 지표(8/24~8/30): 주간 방문자 <span class="hl-blue">2,456명</span>(<span class="hl-green">+5.2%</span>) · 세션 <span class="hl-blue">2,701건</span>(<span class="hl-green">+7.5%</span>) · 페이지뷰 <span class="hl-blue">10,552회</span></p>
 </blockquote>
 </section>
-</foreignObject></svg><svg data-marpit-svg="" viewBox="0 0 1280 720"><foreignObject width="1280" height="720"><section id="33" data-paginate="true" data-theme="clean" lang="ko-KR" data-marpit-pagination="33" style="--paginate:true;--theme:clean;" data-marpit-pagination-total="34">
+</foreignObject></svg><svg data-marpit-svg="" viewBox="0 0 1280 720"><foreignObject width="1280" height="720"><section id="34" data-paginate="true" data-theme="clean" lang="ko-KR" data-marpit-pagination="34" style="--paginate:true;--theme:clean;" data-marpit-pagination-total="35">
 <h2 id="%F0%9F%94%97-%EB%9D%BC%EC%9D%B4%EB%B8%8C-%EC%97%94%EB%93%9C%ED%8F%AC%EC%9D%B8%ED%8A%B8"><img class="emoji" draggable="false" alt="🔗" src="https://cdn.jsdelivr.net/gh/jdecked/twemoji@17.0.3/assets/svg/1f517.svg" data-marp-twemoji=""/> 라이브 엔드포인트</h2>
 <div class="links">
 <span class="lbl">사용자</span>
@@ -712,7 +749,7 @@
 <a class="lnk legacy" href="https://look360.co.kr" target="_blank">look360.co.kr (운영)</a>
 </div>
 </section>
-</foreignObject></svg><svg data-marpit-svg="" viewBox="0 0 1280 720"><foreignObject width="1280" height="720"><section id="34" data-class="closing" data-theme="clean" lang="ko-KR" class="closing" style="--class:closing;--theme:clean;">
+</foreignObject></svg><svg data-marpit-svg="" viewBox="0 0 1280 720"><foreignObject width="1280" height="720"><section id="35" data-class="closing" data-theme="clean" lang="ko-KR" class="closing" style="--class:closing;--theme:clean;">
 <h2 id="%EA%B0%90%EC%82%AC%ED%95%A9%EB%8B%88%EB%8B%A4">감사합니다</h2>
 <p>첫 화면을 <span class="hl-green">실제로 돌려볼 수 있는 360VIEW</span>로 바꾸고, 관리자가 볼 수 없던 <span class="hl-green">검색 트렌드와 판매 위반</span>을 화면으로 만든 주간이었습니다.</p>
 <hr />
